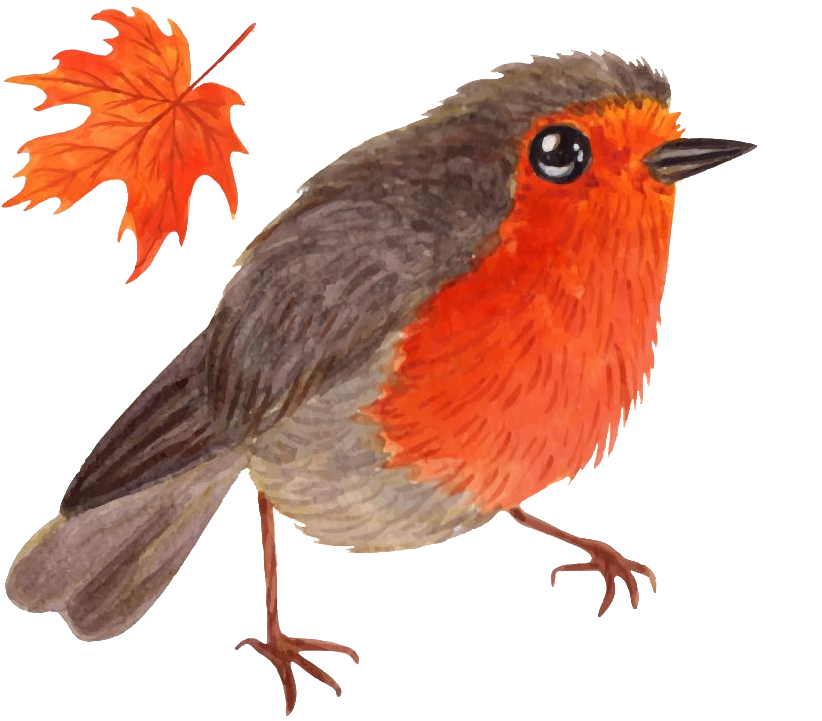
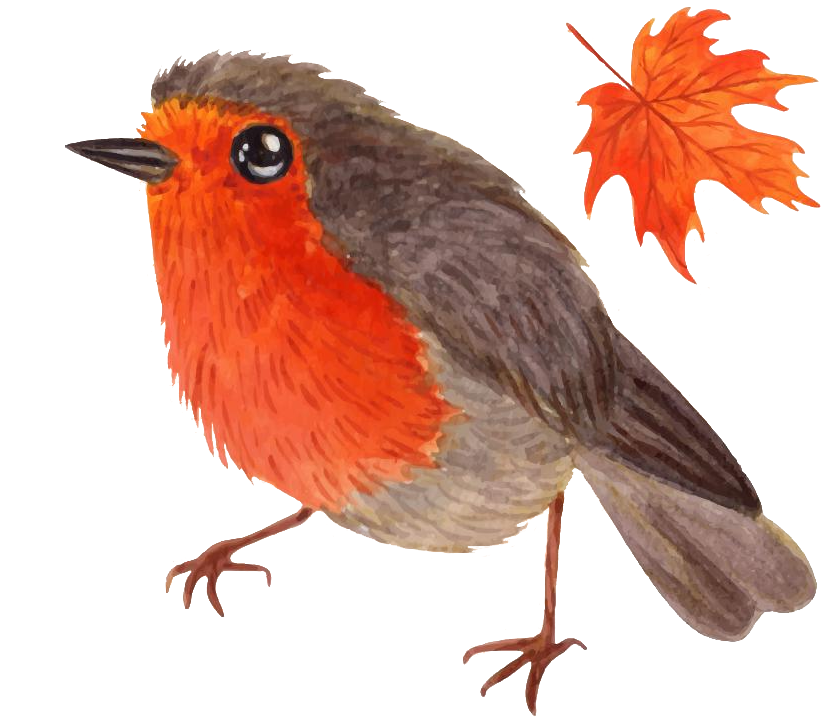
mirrored bird2 and 3, added beak and wing

diff --git a/app/components/above-the-fold.tsx b/app/components/above-the-fold.tsx
@@ -7,9 +7,11 @@ interface AboveTheFoldProps {
   title: string;
   subtitle: string;
   bird?: ReactNode;
+  beak?: ReactNode;
+  wings?: ReactNode;
 }
 
-export default function AboveTheFold({ title, subtitle, bird }: AboveTheFoldProps) {
+export default function AboveTheFold({ title, subtitle, bird, beak, wings }: AboveTheFoldProps) {
   const audioRef = useRef<HTMLAudioElement>(null);
   const sectionRef = useRef<HTMLElement>(null);
   const fadeIntervalRef = useRef<NodeJS.Timeout | null>(null);
@@ -99,6 +101,8 @@ export default function AboveTheFold({ title, subtitle, bird }: AboveTheFoldProp
         )}
       </div>
       {bird}
+      {beak}
+      {wings}
     </section>
   );
 }

diff --git a/app/page.tsx b/app/page.tsx
@@ -12,6 +12,8 @@ export default function Home() {
           title="Dominique van Waardhuizen" 
           subtitle="Student ICT media design"
           bird={<AnimatedBird src="/img/bird1/bird1base.png" alt="Bird decoration" width={480} height={547} />}
+          beak={<AnimatedBird src="/img/bird1/bird1Underbeak.png" alt="Bird beak decoration" width={480} height={547} />}
+          wings={<AnimatedBird src="/img/bird1/bird1wing.png" alt="Bird wing decoration" width={480} height={547} />}
         />
         <Whoami />
         <VerticalScrollSection />
